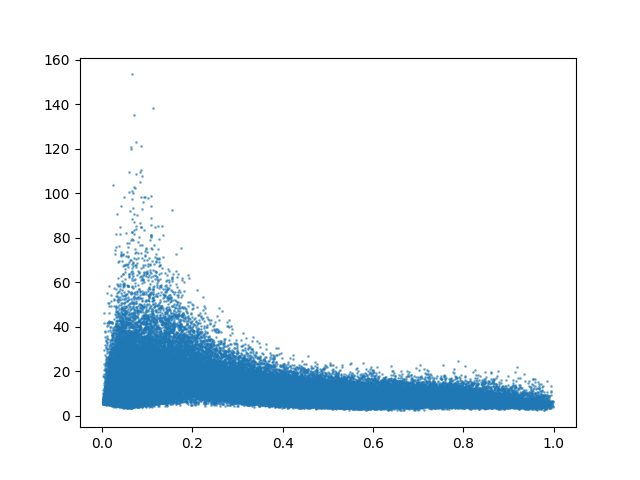
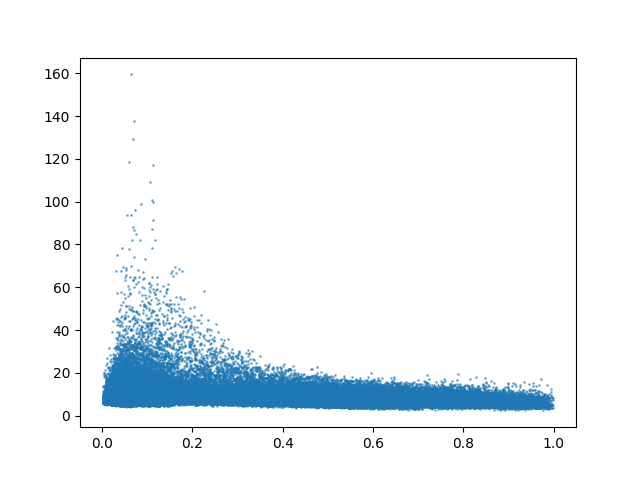
Fix error in stretch factor computation

diff --git a/ml_data_interpretation/check_metric_quality.py b/ml_data_interpretation/check_metric_quality.py
@@ -1,18 +1,64 @@
 import numpy as np
 from matplotlib import pyplot as plt
+from scipy.linalg import sqrtm
+
+
+def get_affine_patch_index(points):
+    one_entries = np.where(np.abs(points-1) < 0.00000000001)[0]
+    assert len(one_entries) == 1
+
+    return one_entries[0]
+
+
+def get_affine_point_coordinates(point):
+    one_entries = np.where(np.abs(point-1) < 0.00000000001)[0]
+    assert len(one_entries) == 1
+    return np.delete(point, one_entries[0])
+
+
+def get_four_coord_restriction(five_coord_restriction, affine_patch_index):
+    return np.delete(five_coord_restriction, affine_patch_index, axis=1)
+
+
+def get_real_part_of_metric(matrix):
+    return (matrix+np.conj(matrix))/2
+
+
+def matrix_root(mat):
+    return sqrtm(mat)
+
+    eigenpairs = np.linalg.eig(mat)
+    eigenvals = eigenpairs[0]
+    eigentransformation = np.linalg.inv(eigenpairs[1])
+    diagroot = np.diag([np.sqrt(val) for val in eigenvals])
+    this_root = np.linalg.inv(eigentransformation).dot(diagroot.dot(eigentransformation))
+    return this_root
 
 
 def load_data():
     points = np.load('data/CYmetric/points_complex.npy')
     metric = np.load('data/CYmetric/cymetric.npy')
     losses = np.load('data/CYmetric/unweighted_loss.npy')
-    return points, metric, losses
+    unrestricted_metric = np.load('data/metrics_and_restrictions/cymetric_cpn.npy')
+    restrictions = np.load('data/metrics_and_restrictions/restriction.npy')
+    return points, metric, losses, unrestricted_metric, restrictions
 
 
 def get_approx_distances_to_near_singularity(points):
+    singpoints = load_sing_points()
+    distances = []
+    for n, point in enumerate(points):
+        if n % 10 == 0:
+            print(f'Computing distance for point number {n}')
+        distances += [get_distance_to_sing_locus(point, singpoints)]
+    return distances
+
+
+def get_approx_distances_to_near_singularity_old(points):
     distances = []
     for p in points:
         p = p/np.linalg.norm(p)
+        np.linalg
         quadric = abs(p[0]**2+p[1]**2+p[2]**2+p[3]**2+p[4]**2)
         cubic = abs(p[0]*(p[1]**2+p[2]**2+p[3]**2-p[4]**2)-(p[1]**2+p[2]**2+p[3]**2-1/2*p[4]**2)-1/2*p[0]**3)
         distances += [max(quadric, cubic)]
@@ -20,31 +66,102 @@ def get_approx_distances_to_near_singularity(points):
 
 
 def plot_distance_versus_loss(points, losses, N=100000):
-    distances = get_approx_distances_to_near_singularity(points[:N])
+    distances = get_approx_distances_to_near_singularity_old(points[:N])
     plt.scatter(distances, losses[:N], s=1, alpha=0.5)
     plt.savefig('output_images/distance_versus_loss.png')
     plt.show()
 
 
-def plot_distance_to_sing_versus_neckness(points, metric, N=100000):
-    distances = get_approx_distances_to_near_singularity(points[:N])
+def load_sing_points():
+    return np.genfromtxt('extra_data/singularQuinticPoints.csv', dtype=complex, delimiter=',')
+
+
+def fubini_study_distance(p, q):
+    return np.arccos(np.sqrt((np.abs(np.inner(p, q)))**2/(np.linalg.norm(p)**2*np.linalg.norm(q)**2)))
+
+
+def get_distance_to_sing_locus(point, singpoints):
+    min_distance = 1000
+    for singpoint in singpoints:
+        min_distance = min(min_distance, fubini_study_distance(singpoint, point))
+    return min_distance
+
+
+def get_real_fubini_study_metric(point):
+    '''For points in affine coordinates (i.e. have thrown away the =1 coordinate. For CP^4 this should have length 4.)'''
+
+    hermitian_metric = np.zeros((4,4), dtype=np.complex64)
+    for i in [0,1,2,3]:
+        for j in [0,1,2,3]:
+            if i==j:
+                hermitian_metric[i,j] = (1+np.linalg.norm(point, ord=2)**2-np.abs(point[i]))/(1+np.linalg.norm(point, ord=2)**2)**2
+            else:
+                hermitian_metric[i, j] = (- point[j] * np.conj(point[i]))/(1+np.linalg.norm(point, ord=2)**2)**2
+    # print(f'hermitian_metric={hermitian_metric}')
+    return hermitian_metric
+    #(hermitian_metric+np.conj(hermitian_metric))/2
+
+
+def get_real_restricted_fubini_study(point, four_to_three_restriction):
+    fubini_study_four_by_four = get_real_fubini_study_metric(get_affine_point_coordinates(point))
+    restricted_fubini = np.matmul(four_to_three_restriction, np.matmul(fubini_study_four_by_four, np.conj(np.transpose(four_to_three_restriction))))
+    return (restricted_fubini+np.conj(restricted_fubini))/2
+
+
+def get_stretch_factors(point, metric, restriction):
+    """Compare the Fubini-Study metric with the learned approximate
+    Calabi-Yau metric in a point.
+
+    :param point: Point with 5 coordinates, one of which must be equal to 1
+    :param metric: 3x3 metric
+    :param restriction: 5x3 restriction map
+    :return:
+    """
+    fubi_metric = get_real_restricted_fubini_study(point, get_four_coord_restriction(restriction, get_affine_patch_index(point)))
+    fubi_root = matrix_root(fubi_metric)
+
+    real_metric = get_real_part_of_metric(metric)
+
+    stretch_factors = np.linalg.eigvals(np.matmul(np.linalg.inv(fubi_root), real_metric, np.linalg.inv(fubi_root)))
+    # if stretch_factors[-1] < 0:
+        # print(f'point: {point}')
+        # print(f'fubi_metric: {fubi_metric}')
+        # print(f'fubi_root: {fubi_root}')
+        # print(f'fubi_root**2: {np.matmul(fubi_root, fubi_root)}')
+        # print(f'real_metric: {real_metric}')
+        # print(f'stretch_factors: {stretch_factors}')
+        # input()
+    return stretch_factors
+
+
+def plot_distance_to_sing_versus_neckness(points, metrics, restrictions, N=100000, distance_computation='crude'):
+    if distance_computation=='crude':
+        distances = get_approx_distances_to_near_singularity_old(points[:N])
+    else:
+        distances = get_approx_distances_to_near_singularity(points[:N])
 
     biggest_evs = []
     smallest_evs = []
-    for point_metric in metric[:N]:
-        eigenvalues = np.linalg.eigh(point_metric)[0]
+    for point, metric, restriction in zip(points[:N], metrics[:N], restrictions[:N]):
+        eigenvalues = get_stretch_factors(point, metric, restriction)
         biggest_evs += [eigenvalues[2]]
         smallest_evs += [eigenvalues[0]]
 
     plt.scatter(distances, biggest_evs[:N], s=1, alpha=0.5)
+    #plt.ylim([0, 1000])
     plt.savefig('output_images/distance_versus_neckness.png')
     plt.show()
+    #plt.scatter(distances, smallest_evs[:N], s=1, alpha=0.5)
+    #plt.show()
 
 
 def main():
-    points, metric, losses = load_data()
+    points, metric, losses, unrestricted_metric, restrictions = load_data()
+
     plot_distance_versus_loss(points, losses, N=100000)
-    plot_distance_to_sing_versus_neckness(points, metric, N=100000)
+    plot_distance_to_sing_versus_neckness(points, metric, restrictions, N=100000, distance_computation='crude')
+
+
 
 
 if __name__ == '__main__':

diff --git a/ml_data_interpretation/count_zeros.py b/ml_data_interpretation/count_zeros.py
@@ -112,10 +112,4 @@ def find_medoids_cluster(points_real, omega_norm):
 if __name__ == '__main__':
     points_real, omega_norm = load_data()
 
-    #avg_nearest_distances = average_nearest_point(points_real, fubini_study_distance, 1000)
-    #print(avg_nearest_distances)
-    #print(np.average(avg_nearest_distances), np.std(avg_nearest_distances))
-
-    #find_agglomerate_cluster(points_real, omega_norm)
-
     find_medoids_cluster(points_real, omega_norm)
